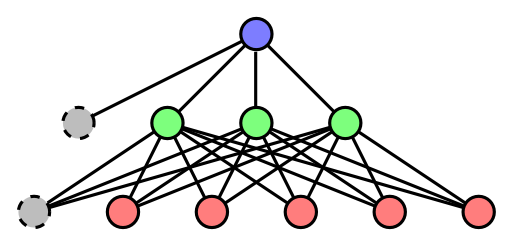
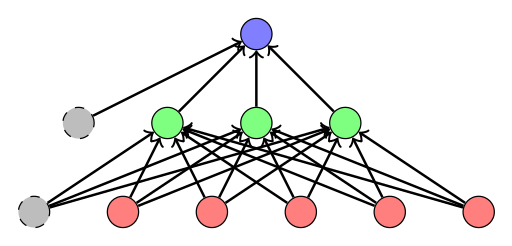
Add arrow heads as MLPs are directed

diff --git a/tikz/feed-forward-perceptron/feed-forward-perceptron.tex b/tikz/feed-forward-perceptron/feed-forward-perceptron.tex
@@ -25,16 +25,16 @@
   \node (h3)[hidden] at (2.5,1) {};
   \node (o1)[output] at (1.5,2) {};
 
-	\draw (b2) -- (o1);
-	\draw (h1) -- (o1);
-	\draw (h2) -- (o1);
-	\draw (h3) -- (o1);
+	\draw[->, thick] (b2) -- (o1);
+	\draw[->, thick] (h1) -- (o1);
+	\draw[->, thick] (h2) -- (o1);
+	\draw[->, thick] (h3) -- (o1);
 
     \foreach \j in {1, ..., 3}{
     	\foreach \i in {1, ..., 5}{
-			\draw (h\j) -- (i\i);
+			\draw[<-, thick] (h\j) -- (i\i);
 		}
-		\draw (h\j) -- (b1);
+		\draw[<-, thick] (h\j) -- (b1);
 	}
 \end{tikzpicture}
 \end{preview}
